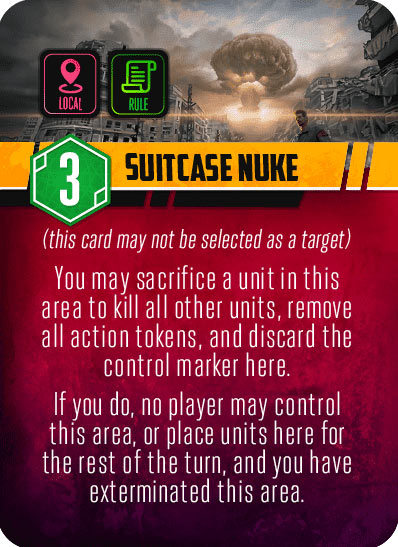
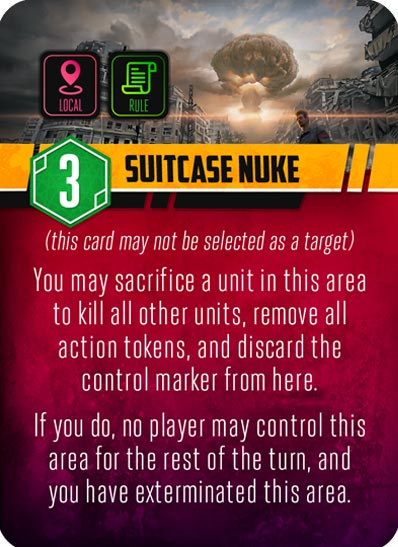
Remove no-deploy clause from Suitcase Nuke

diff --git a/server/classes/factions/mixins/deploysUnits.js b/server/classes/factions/mixins/deploysUnits.js
@@ -41,12 +41,7 @@ let obj = {
             if( typeof args.area === 'string' ) areas.push( args.area );
             else areas.push( args.area.name );
         } else {
-            areas = Object.values( this.game().areas )
-                .map( area => {
-                    if( area.data.cards.some( card => card.class === 'suitcase-nuke' ) && !this.data.teleports ) return false;
-                    return area.name;
-                })
-                .filter( area => area );
+            areas = Object.values( this.game().areas ).map( area => area.name );
         }
 
         let data = {
@@ -106,11 +101,7 @@ let obj = {
             let area = this.game().areas[name];
             let cards = area.data.cards;
 
-            let trapped = _.areaIsTrapped( this, area );
-
-            let nuked = _.find( cards, card => card.class === 'suitcase-nuke' );
-
-            if( nuked || trapped ){
+            if( _.areaIsTrapped( this, area )){
                 delete areas[name];
             }
         });
